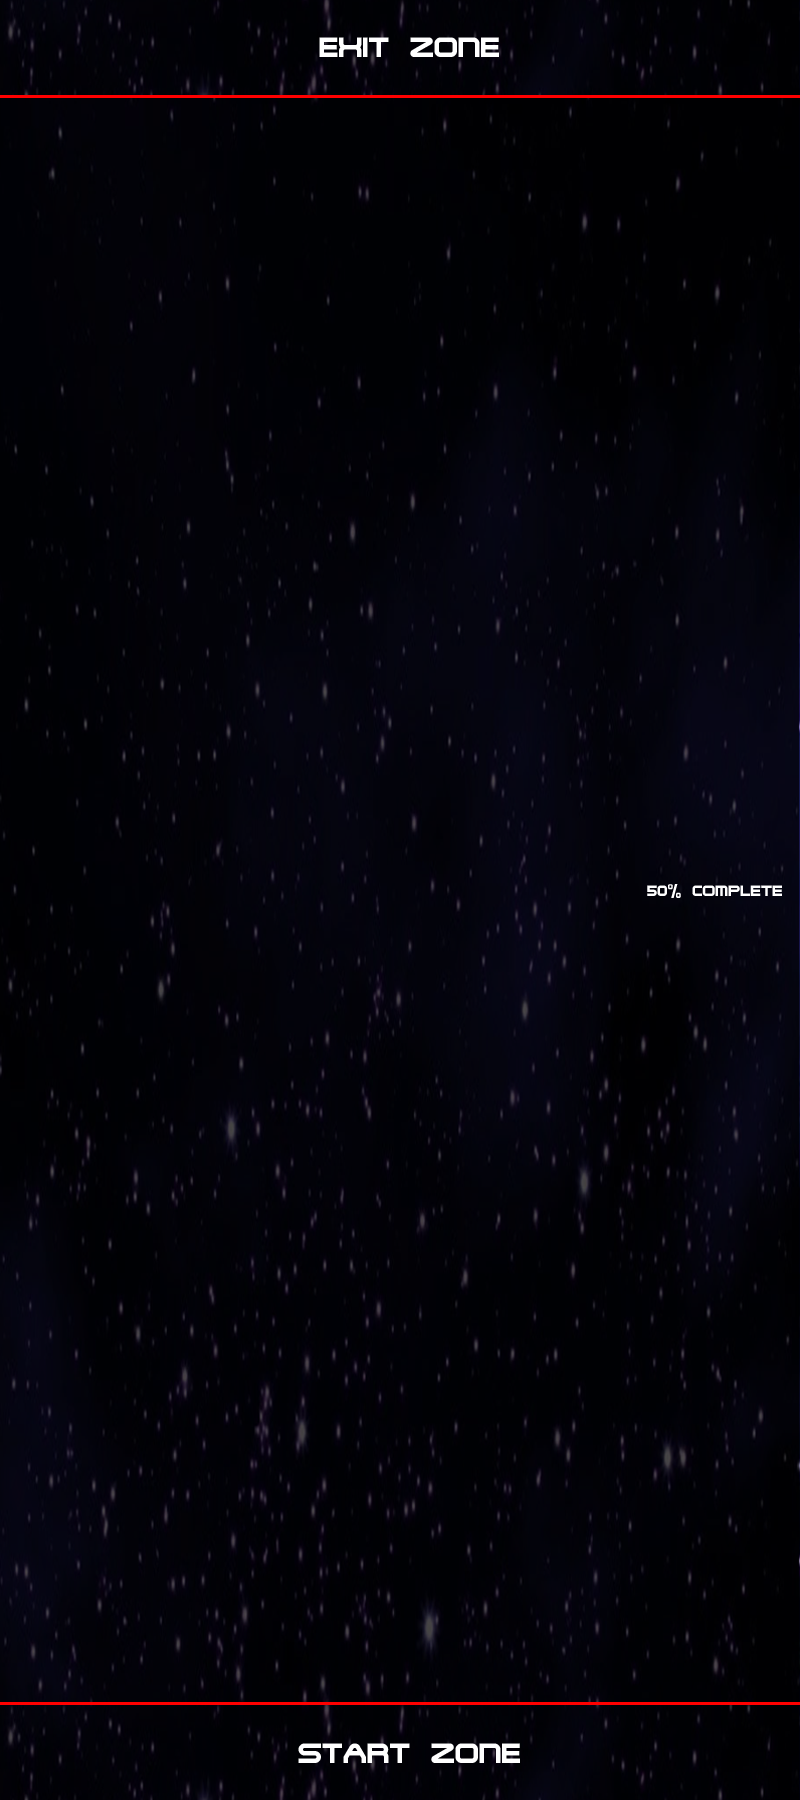
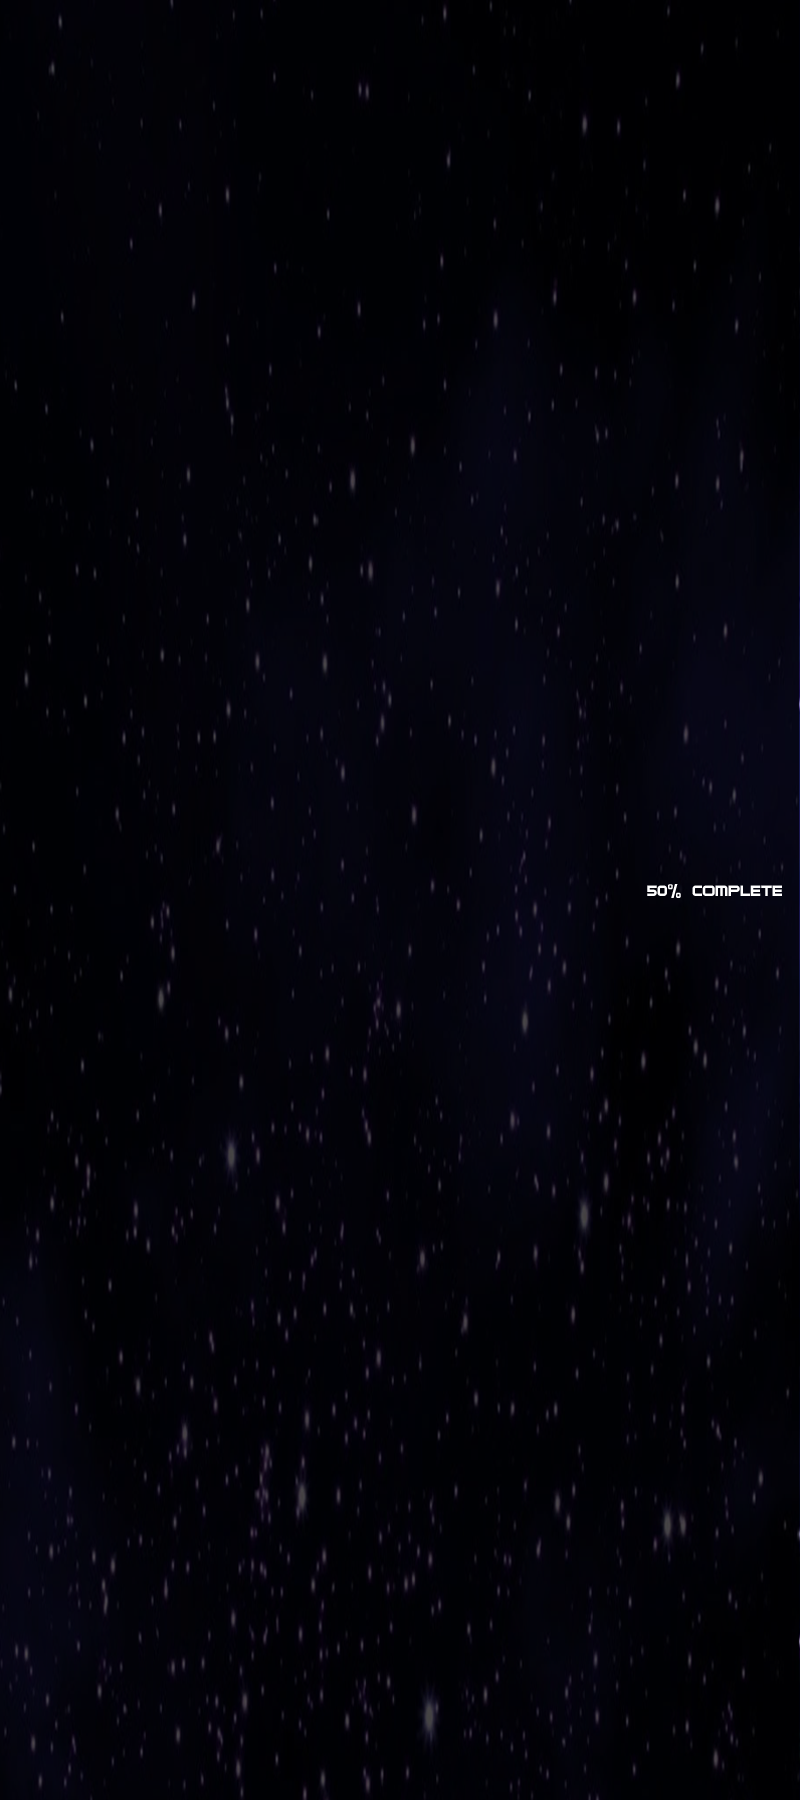
Displaying link names

diff --git a/Unstable/StarFighter/StarFighter/Scene.cpp b/Unstable/StarFighter/StarFighter/Scene.cpp
@@ -2,35 +2,31 @@
 
 extern Game* CurrentGame;
 
-
 void Scene::LoadSceneFromFile(string name, bool reverse_scene, bool first_scene)
 {
 	LOGGER_WRITE(Logger::Priority::DEBUG, TextUtils::format("Loading scene '%s'", (char*)name.c_str()));
-	this->hazard_break_value = 0;
-	this->generating_enemies = false;
 
 	for (int i = 0; i < EnemyClass::NBVAL_EnemyClass; i++)
 	{
 		this->total_class_probability[i] = 0;
 	}
 	try {
+		//Loading the list of all scenes, contained in SCENES_FILE
 		list<vector<string>> scenesConfig = *(FileLoaderUtils::FileLoader(SCENES_FILE));
 
 		for (std::list<vector<string>>::iterator it = (scenesConfig).begin(); it != (scenesConfig).end(); it++)
 		{
 			if ((*it)[ScenesData::SCENE_NAME].compare(name) == 0)
 			{
-
+				//Loading the linked scene names
 				this->links[Directions::DIRECTION_UP] = (*it)[ScenesData::SCENE_LINK_UP];
 				this->links[Directions::DIRECTION_DOWN] = (*it)[ScenesData::SCENE_LINK_DOWN];
 				this->links[Directions::DIRECTION_RIGHT] = (*it)[ScenesData::SCENE_LINK_RIGHT];
 				this->links[Directions::DIRECTION_LEFT] = (*it)[ScenesData::SCENE_LINK_LEFT];
+				std::string scene_name = (*it)[ScenesData::SCENE_DISPLAYNAME];
 
-
+				//Loading the particular scene that we want to load
 				list<vector<string>> config = *(FileLoaderUtils::FileLoader((*it)[ScenesData::SCENE_FILENAME]));
-
-				int p = 0;
-				//enemies
 				for (std::list<vector<string>>::iterator it = (config).begin(); it != (config).end(); it++)
 				{
 					if ((*it)[0].compare("bg") == 0)
@@ -42,6 +38,7 @@ void Scene::LoadSceneFromFile(string name, bool reverse_scene, bool first_scene)
 						float w = stoi((*it)[SceneDataBackground::BACGKROUND_WIDTH]);
 						float h = stoi((*it)[SceneDataBackground::BACKGROUND_HEIGHT]);
 
+						//Assigning the right direction for the scene
 						if ((*it)[SceneDataBackground::BACKGROUND_VERTICAL].compare("V") == 0)
 						{
 							if (!reverse_scene)
@@ -73,6 +70,7 @@ void Scene::LoadSceneFromFile(string name, bool reverse_scene, bool first_scene)
 							}
 						}
 
+						//Setting the right initial position and speed
 						float first_screen_offset = 0;
 						if (first_scene)
 						{
@@ -89,21 +87,32 @@ void Scene::LoadSceneFromFile(string name, bool reverse_scene, bool first_scene)
 
 						sf::Vector2f size_for_dir = Independant::getSize_for_Direction((*CurrentGame).direction, sf::Vector2f(w, h));
 						this->bg->setPosition_Y_for_Direction((*CurrentGame).direction, sf::Vector2f(size_for_dir.x / 2, (-size_for_dir.y / 2) + first_screen_offset), true);
-
-						this->bg->display_name = (*it)[SceneDataBackground::BACKGROUND_DISPLAYNAME];
 						this->bg->setVisible(true);
 						this->bg->isOnScene = true;
+						this->bg->display_name = scene_name;
 
-						//drawing link zones
+						//Drawing link zones and texts
 						for (int i = 0; i < Directions::NO_DIRECTION; i++)
 						{
 							if (this->links[(Directions)i].compare("0") != 0)
 							{
+								//Getting the string of the "display name" for a each linked scene
+								for (std::list<vector<string>>::iterator it = (scenesConfig).begin(); it != (scenesConfig).end(); it++)
+								{
+									if ((*it)[ScenesData::SCENE_NAME].compare(this->links[(Directions)i]) == 0)
+									{
+										this->links_displayname[(Directions)i] = (*it)[ScenesData::SCENE_DISPLAYNAME];
+									}
+									
+								}
+								//Then drawing the rect and text
 								this->SetLinkZone((Directions)i, first_scene);
 							}
 						}
 					}
 
+					//Loading enemies
+					int p = 0;
 					int enemy_count = 0;
 					if ((*it)[0].compare("enemy") == 0)
 					{
@@ -123,7 +132,7 @@ void Scene::LoadSceneFromFile(string name, bool reverse_scene, bool first_scene)
 						//hazard value automatic calculation
 						hazard_break_value += e->enemy->getMoney() * e->poolsize * HAZARD_BREAK_RATIO;
 					}
-					//printf("Hazard Break to reach: %d\n", hazard_break_value);
+
 					if (enemy_count != 0 && this->direction != Directions::NO_DIRECTION)
 					{
 						generating_enemies = true;
@@ -141,6 +150,7 @@ void Scene::LoadSceneFromFile(string name, bool reverse_scene, bool first_scene)
 
 void Scene::SetLinkZone(Directions direction, bool first_scene)
 {
+	//Rect
 	float size_x = Independant::getSize_for_Direction(direction, sf::Vector2f(SCENE_SIZE_X, SCENE_SIZE_Y)).x - (2 * HUB_EXIT_X_MIN_RATIO * SCENE_SIZE_X);//circa 550
 	float size_y = HUB_EXIT_X_MIN_RATIO * SCENE_SIZE_X;//150
 	this->link_zone[direction].rect.setSize(Independant::getSize_for_Direction(direction, sf::Vector2f(size_x, size_y)));
@@ -155,13 +165,41 @@ void Scene::SetLinkZone(Directions direction, bool first_scene)
 	this->link_zone[direction].setPosition_Y_for_Direction(direction, sf::Vector2f(bg_size.x / 2, -bg_size.y + (size_y / 2) + first_scene_offset), true);
 	this->link_zone[direction].rect.setPosition(this->link_zone[direction].getPosition()); 
 
+	//Title
+	sf::Font* font = new sf::Font();
+	if (!font->loadFromFile("Assets/Fonts/terminator_real_nfi.ttf"))
+	{
+		// error
+		//TODO: font loader
+	}
+	this->link_zone[direction].title.setFont(*font);
+	this->link_zone[direction].title.setCharacterSize(16);
+	this->link_zone[direction].title.setColor(sf::Color::White);
+	this->link_zone[direction].title.setString(this->links_displayname[direction]);
+	this->link_zone[direction].title.setRotation(0.0);
+
+	float w = this->link_zone[direction].title.getGlobalBounds().width;
+	float h = this->link_zone[direction].title.getGlobalBounds().height;
+	this->link_zone[direction].title.setOrigin(sf::Vector2f(w/2, h/2));
+	this->link_zone[direction].title_offset = Independant::getSpeed_for_Scrolling(direction, - HUB_EXIT_X_MIN_RATIO * SCENE_SIZE_X * HUB_LINK_NAME_OFFSET_RATIO);
+	this->link_zone[direction].title.setPosition(this->link_zone[direction].getPosition().x, this->link_zone[direction].getPosition().y);
+	
+	if (direction == Directions::DIRECTION_RIGHT || direction == Directions::DIRECTION_LEFT)
+	{
+		this->link_zone[direction].title.setRotation(Independant::getRotation_for_Direction(direction));
+		//this->link_zone[direction].title.setRotation(270.0);
+	}
+
 	//(*CurrentGame).addToScene(&this->link_zone[direction], LayerType::LinkZoneLayer, IndependantType::LinkZone);
 }
 
 Scene::Scene(string name, bool reverse_scene, bool first_scene)
 {
-	hazard_level = 0;
-	LoadSceneFromFile(name, reverse_scene, first_scene);
+	this->hazard_break_value = 0;
+	this->generating_enemies = false;
+	this->hazard_level = 0;
+
+	this->LoadSceneFromFile(name, reverse_scene, first_scene);
 }
 
 void Scene::Update(Time deltaTime)
@@ -192,10 +230,9 @@ void Scene::Draw(sf::RenderWindow* window)
 	{
 		if (this->links[(Directions)i].compare("0") != 0)
 		{
-			window->draw(this->link_zone[i].rect);
+			this->link_zone[i].Draw(window);
 		}
 	}
-
 }
 
 void Scene::GenerateEnemies(Time deltaTime)

diff --git a/Unstable/StarFighter/StarFighter/Hud.cpp b/Unstable/StarFighter/StarFighter/Hud.cpp
@@ -38,17 +38,24 @@ void PlayerHud::Init(int m_armor, int m_shield)
 			// error
 			//TODO: font loader
 		}
-
+		//left part
+		sf::Color _white = sf::Color::Color(255, 255, 255, 200);//semi-transparent white
 		Money.setFont(*font);
 		Money.setCharacterSize(20);
-		Money.setColor(sf::Color::White);
+		Money.setColor(_white);
 		Money.setPosition(50,WINDOW_RESOLUTION_Y-50);
 
 		GrazeScore.setFont(*font);
 		GrazeScore.setCharacterSize(14);
-		GrazeScore.setColor(sf::Color::White);
-		GrazeScore.setPosition(50,WINDOW_RESOLUTION_Y-70);
+		GrazeScore.setColor(_white);
+		GrazeScore.setPosition(50, WINDOW_RESOLUTION_Y - 50 - HUD_SCORES_SPACING);
 
+		SceneName.setFont(*font);
+		SceneName.setCharacterSize(14);
+		SceneName.setColor(_white);
+		SceneName.setPosition(50, WINDOW_RESOLUTION_Y - 50 - 2*HUD_SCORES_SPACING);
+
+		//right part
 		hazardBreakText = new sf::Text("Hazard\nBreak", *font, 12);
 		hazardBreakText->setColor(sf::Color::Red);
 		hazardBreakText->setStyle(sf::Text::Bold);
@@ -88,7 +95,7 @@ void PlayerHud::Init(int m_armor, int m_shield)
 	hazardBarMax.setPosition(WINDOW_RESOLUTION_X-40, 10);
 }
 
-void PlayerHud::Update(sf::RenderWindow* window, int m_armor, int m_shield, int m_money, int m_graze_count, int m_hazard_score, int m_hazard_break_value, sf::Time deltaTime)
+void PlayerHud::Update(int m_armor, int m_shield, int m_money, int m_graze_count, int m_hazard_score, int m_hazard_break_value, std::string scene_name, sf::Time deltaTime)
 {
 	//armor and shield
 	if (m_armor <=0)
@@ -118,6 +125,11 @@ void PlayerHud::Update(sf::RenderWindow* window, int m_armor, int m_shield, int 
 	ostringstream ss_g;
 	ss_g << m_graze_count;
 	GrazeScore.setString("Graze: "+ss_g.str());
+
+	//scene name
+	ostringstream ss_bg;
+	ss_bg << scene_name;
+	SceneName.setString(ss_bg.str());
 
 	//hazard break
 	if (m_hazard_break_value != 0)
@@ -157,6 +169,7 @@ void PlayerHud::Draw(sf::RenderWindow* window)
 	window->draw(shieldBar);
 	window->draw(Money);
 	window->draw(GrazeScore);
+	window->draw(SceneName);
 	
 	if (!no_hazard_value)
 	{
@@ -171,11 +184,20 @@ void PlayerHud::Draw(sf::RenderWindow* window)
 
 HudElement::HudElement() : Independant()
 {
-
+	this->visible = true;
+	this->isOnScene = true;
 }
 
 void HudElement::update(sf::Time deltaTime)
 {
 	Independant::update(deltaTime);
+
 	this->rect.setPosition(this->getPosition());
+	this->title.setPosition(this->rect.getPosition().x + this->title_offset.x, this->rect.getPosition().y + this->title_offset.y);
+}
+
+void HudElement::Draw(sf::RenderWindow* window)
+{
+	window->draw(this->rect);
+	window->draw(this->title);
 }

diff --git a/Unstable/StarFighter/StarFighter/Hud.h b/Unstable/StarFighter/StarFighter/Hud.h
@@ -15,7 +15,7 @@ class PlayerHud
 public:
 	PlayerHud::PlayerHud();
 	void Init(int m_armor, int m_shield);
-	void Update(sf::RenderWindow* window, int m_armor, int m_shield, int m_money, int m_graze_count, int m_hazard_score, int m_hazard_break_value, sf::Time deltaTime);
+	void Update(int m_armor, int m_shield, int m_money, int m_graze_count, int m_hazard_score, int m_hazard_break_value, std::string scene_name, sf::Time deltaTime);
 	void Draw (sf::RenderWindow* window);
 
 private:
@@ -23,6 +23,7 @@ private:
 	sf::RectangleShape shieldBar;
 	sf::Text Money;
 	sf::Text GrazeScore;
+	sf::Text SceneName;
 
 	sf::Font* font;
 	sf::Font* font2;
@@ -41,7 +42,10 @@ class HudElement : public Independant
 public:
 	HudElement();
 	sf::RectangleShape rect;
+	sf::Text title;
+	sf::Vector2f title_offset;
 	void update(sf::Time deltaTime) override;
+	void Draw(sf::RenderWindow* window);
 };
 
 #endif // HUD_H_INCLUDED

diff --git a/Unstable/StarFighter/StarFighter/Scene.h b/Unstable/StarFighter/StarFighter/Scene.h
@@ -19,6 +19,7 @@ enum ScenesData
 {
 	SCENE_NAME,
 	SCENE_FILENAME,
+	SCENE_DISPLAYNAME,
 	SCENE_LINK_UP,
 	SCENE_LINK_DOWN,
 	SCENE_LINK_RIGHT,
@@ -37,6 +38,7 @@ public:
 	void Scene::ExitHubTransition(float transition_speed_UP, float transition_speed_DOWN);
 	void Scene::LoadSceneFromFile(string name, bool reverse_scene=false, bool first_scene=false);
 	void Scene::SetLinkZone(Directions direction, bool first_scene);
+	std::string Scene::LoadSceneNameFromFile(string name);
 
 	float vspeed;
 	bool sceneIsOver;
@@ -50,6 +52,7 @@ public:
 	int getSceneHazardBreakValue();
 	int getSceneHazardLevelValue();
 	std::string links[Directions::NO_DIRECTION];
+	std::string links_displayname[Directions::NO_DIRECTION];
 	HudElement link_zone[Directions::NO_DIRECTION];
 
 private:

diff --git a/Unstable/StarFighter/StarFighter/Globals.h b/Unstable/StarFighter/StarFighter/Globals.h
@@ -29,12 +29,14 @@
 #define HUB_EXIT_Y_MIN_RATIO					0.25f
 #define HUB_EXIT_Y_MAX_RATIO					0.75f
 #define HUB_EXIT_TIMER							1.f
+#define HUB_LINK_NAME_OFFSET_RATIO				0.3f
 
 #define HAZARD_BREAK_RATIO						0.50f
 #define HAZARD_BREAK_MULTIPLIER					0.3f
 #define HAZARD_BAR_SIZE_X						20
 #define HAZARD_BAR_SIZE_Y						500
 
+#define HUD_SCORES_SPACING						20
 
 #define SHIP_FILE "Assets/Scripts/Ship.csv"
 #define ENEMY_FILE	"Assets/Scripts/Enemies.csv"

diff --git a/Unstable/StarFighter/StarFighter/FileLoader.h b/Unstable/StarFighter/StarFighter/FileLoader.h
@@ -57,12 +57,10 @@ enum SceneDataBackground
 {
 	SCENE_COMPARE_BACKGROUND,//0
 	BACKGROUND_NAME,//1
-	BACKGROUND_DISPLAYNAME,//2
-	BACGKROUND_WIDTH,//3
-	BACKGROUND_HEIGHT,//4
-	BACKGROUND_VSPEED,//5
-	BACKGROUND_VERTICAL,//6
-	
+	BACGKROUND_WIDTH,//2
+	BACKGROUND_HEIGHT,//3
+	BACKGROUND_VSPEED,//4
+	BACKGROUND_VERTICAL,//5
 };
 
 enum ShipConfigData
